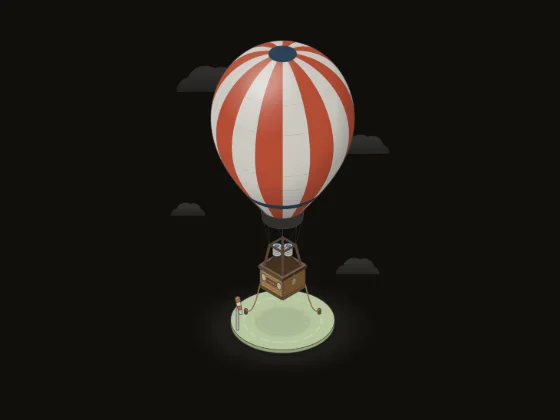
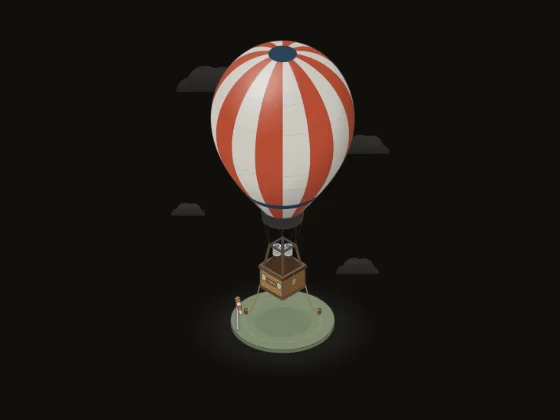
Dim the hot air balloon's turf patch in dark mode
The patch was the brightest thing on the dark stage, brighter than the envelope it carries. Its greens are about 30 percent dimmer there; the light mode is unchanged. The dark thumbnail is retaken.

Changed region(s): [[0.3946, 0.681, 0.6071, 0.8667]]

diff --git a/packages/miniatures/src/figures/hot-air-balloon.ts b/packages/miniatures/src/figures/hot-air-balloon.ts
@@ -5,7 +5,7 @@
 import type { FigureEnv, FigureModule } from '../engine/types'
 
 const css = `:root{color-scheme:light dark;--bg:#f4f3ef;--ink:#323232;--muted:#808080;--top:#fafaf8;--body:#e0e0dc;--side:#c7c7c3;--recess:#9d9d99;--line:#626260;--accent:#3b5bfd;--rule:#d6d6d2;--shadow:#262626;--metal:#d6d6d2;--metal-top:#efefec;--metal-side:#b4b4b1;--g1:#d65a40;--g2:#f4ede0;--crown:#33506b;--skirt:#3b3a38;--wicker:#c99a5c;--wicker-top:#ddb67c;--wicker-side:#a87b44;--weave:#7a5426;--inner:#6e5032;--hide:#74503a;--hide-top:#8d6548;--hide-side:#573a28;--grass:#a7bd8c;--grass-top:#c3d4aa;--grass-side:#8ba071;--mow:#d3e0bd;--canvas:#d8c9a8;--canvas-side:#bcab89;--rope:#a48a62;--sock:#e8743a;--cloud:#fff;--cloud-lo:#dfe5ea;--cloud-a:.95;--glow:#ffb347;--fl0:#fffbe8;--fl1:#ffd76e;--fl2:#ff9b3d;--fl3:#ff5f1f;--pilot:#4f9dff;--hi:.42;--lo:.26;--lit:.34}
-@media(prefers-color-scheme:dark){:root{--bg:#1a1917;--ink:#e8e8e8;--muted:#929292;--rule:#32312e;--accent:#617cff;--shadow:#000;--top:#eaeae8;--body:#bdbdba;--side:#8c8c8b;--recess:#6e6e6c;--metal:#b4b4b2;--metal-top:#e0e0dd;--metal-side:#7e7e7d;--g1:#b44b34;--g2:#ccc8c0;--crown:#294259;--skirt:#302f2e;--wicker:#a9814c;--wicker-top:#cfaa74;--wicker-side:#76552d;--weave:#4f3517;--inner:#45311e;--hide:#61422f;--hide-top:#845e43;--hide-side:#3b2619;--grass:#8c9f75;--grass-top:#b6c69f;--grass-side:#61704e;--mow:#c4d2ae;--canvas:#b6a98d;--canvas-side:#84785f;--rope:#8a7555;--sock:#c3612f;--cloud:#c6c9cd;--cloud-lo:#80848a;--cloud-a:.2;--hi:.3;--lo:.4;--lit:.62;--line:#444443}svg{--ink:#282828;--muted:#6b6b6b}}
+@media(prefers-color-scheme:dark){:root{--bg:#1a1917;--ink:#e8e8e8;--muted:#929292;--rule:#32312e;--accent:#617cff;--shadow:#000;--top:#eaeae8;--body:#bdbdba;--side:#8c8c8b;--recess:#6e6e6c;--metal:#b4b4b2;--metal-top:#e0e0dd;--metal-side:#7e7e7d;--g1:#b44b34;--g2:#ccc8c0;--crown:#294259;--skirt:#302f2e;--wicker:#a9814c;--wicker-top:#cfaa74;--wicker-side:#76552d;--weave:#4f3517;--inner:#45311e;--hide:#61422f;--hide-top:#845e43;--hide-side:#3b2619;--grass:#626f52;--grass-top:#7f8b6f;--grass-side:#444e37;--mow:#899678;--canvas:#b6a98d;--canvas-side:#84785f;--rope:#8a7555;--sock:#c3612f;--cloud:#c6c9cd;--cloud-lo:#80848a;--cloud-a:.2;--hi:.3;--lo:.4;--lit:.62;--line:#444443}svg{--ink:#282828;--muted:#6b6b6b}}
 .face{fill:var(--body);stroke:var(--line);stroke-width:1;vector-effect:non-scaling-stroke;stroke-linejoin:round}.top{fill:var(--top)}.side{fill:var(--side,var(--body))}.recess{fill:var(--recess)}.detail{fill:none;stroke:var(--line);stroke-width:.65;vector-effect:non-scaling-stroke;stroke-linecap:round;stroke-linejoin:round}.shadow{fill:var(--shadow);opacity:.075;filter:url(#soft)}
 .metal{fill:var(--metal)}.top.metal{fill:var(--metal-top)}.side.metal{fill:var(--metal-side)}.wicker{fill:var(--wicker)}.top.wicker{fill:var(--wicker-top)}.side.wicker{fill:var(--wicker-side)}.hide{fill:var(--hide)}.top.hide{fill:var(--hide-top)}.side.hide{fill:var(--hide-side)}.grass{fill:var(--grass)}.top.grass{fill:var(--grass-top)}.side.grass{fill:var(--grass-side)}.canvas{fill:var(--canvas)}.side.canvas{fill:var(--canvas-side)}.inner{fill:var(--inner)}.skirt{fill:var(--skirt)}.crown{fill:var(--crown)}
 .weave{fill:url(#weave);stroke:none}.mow{fill:none;stroke:var(--mow);stroke-width:1.1;stroke-dasharray:5 2.5}.brand{fill:var(--canvas);font:600 1.7px Georgia,'Times New Roman',serif;letter-spacing:.25px;text-anchor:middle;stroke:none}
